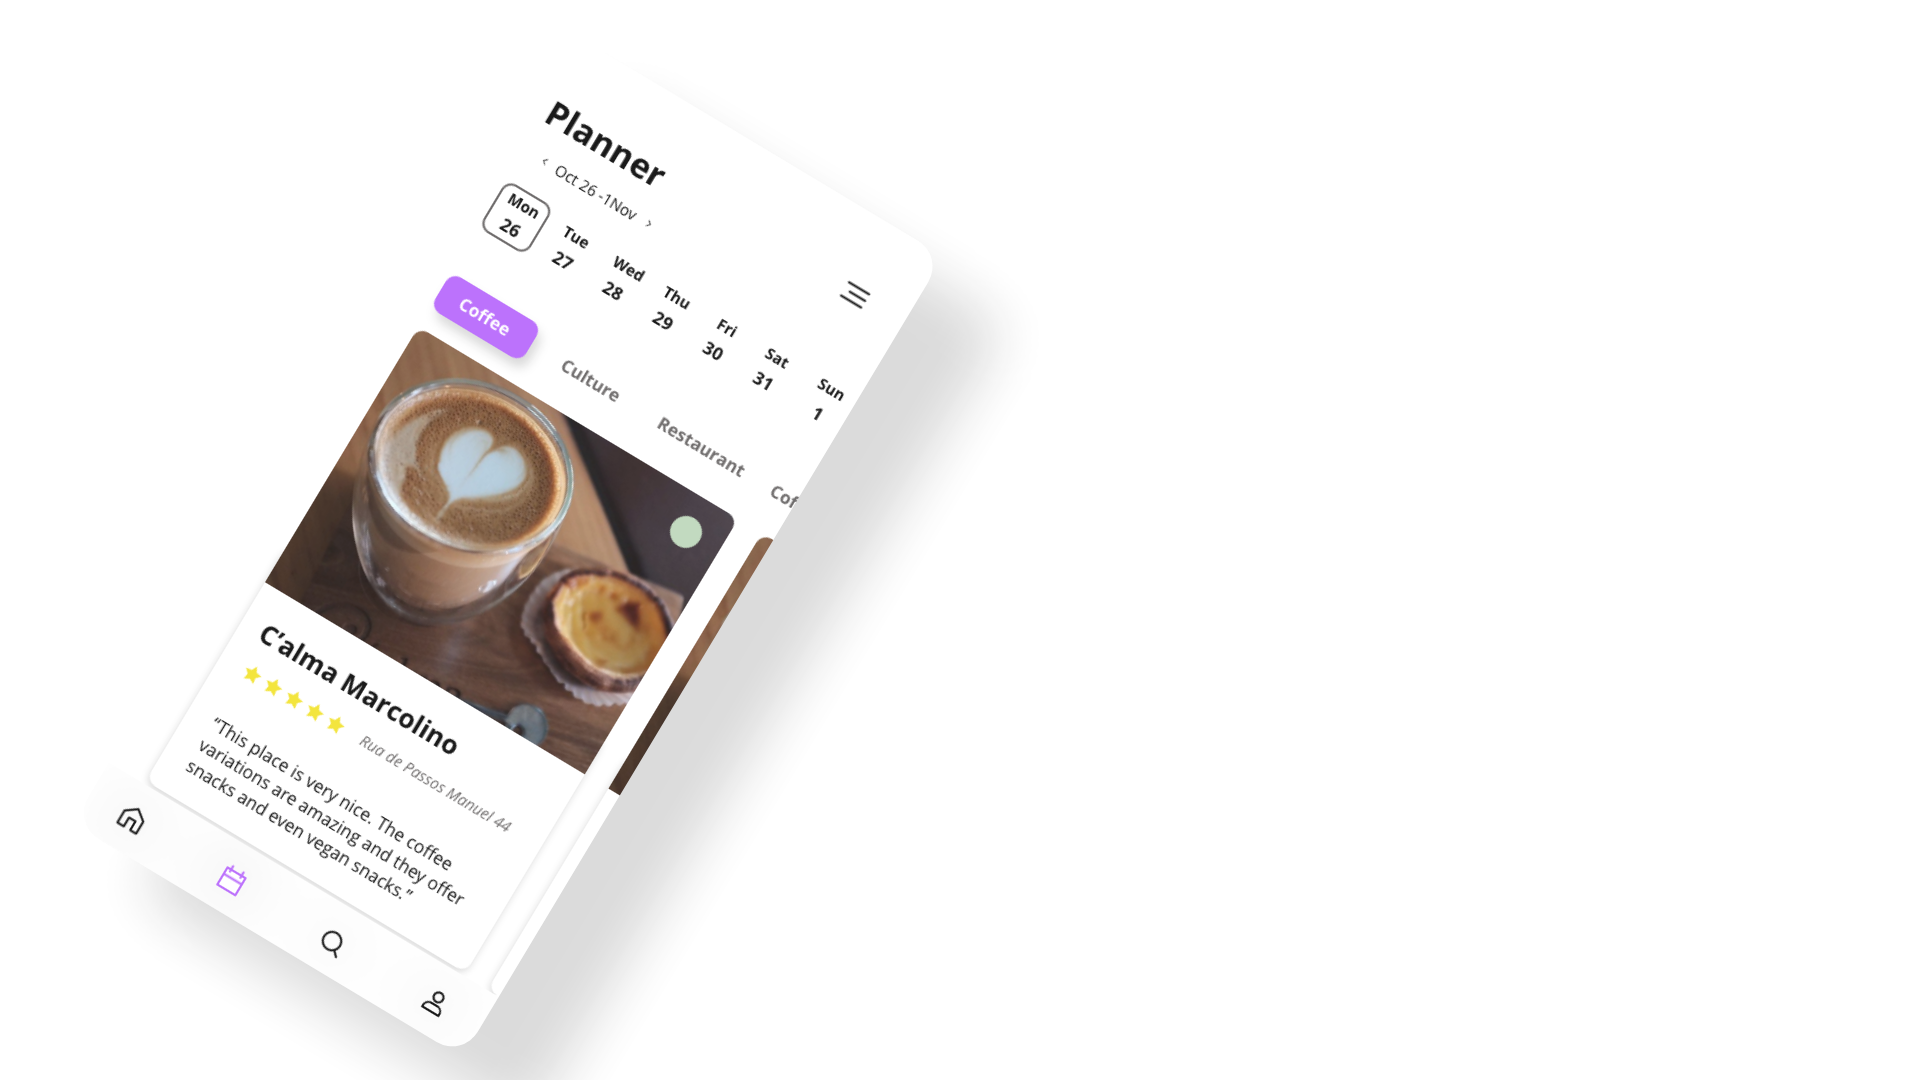
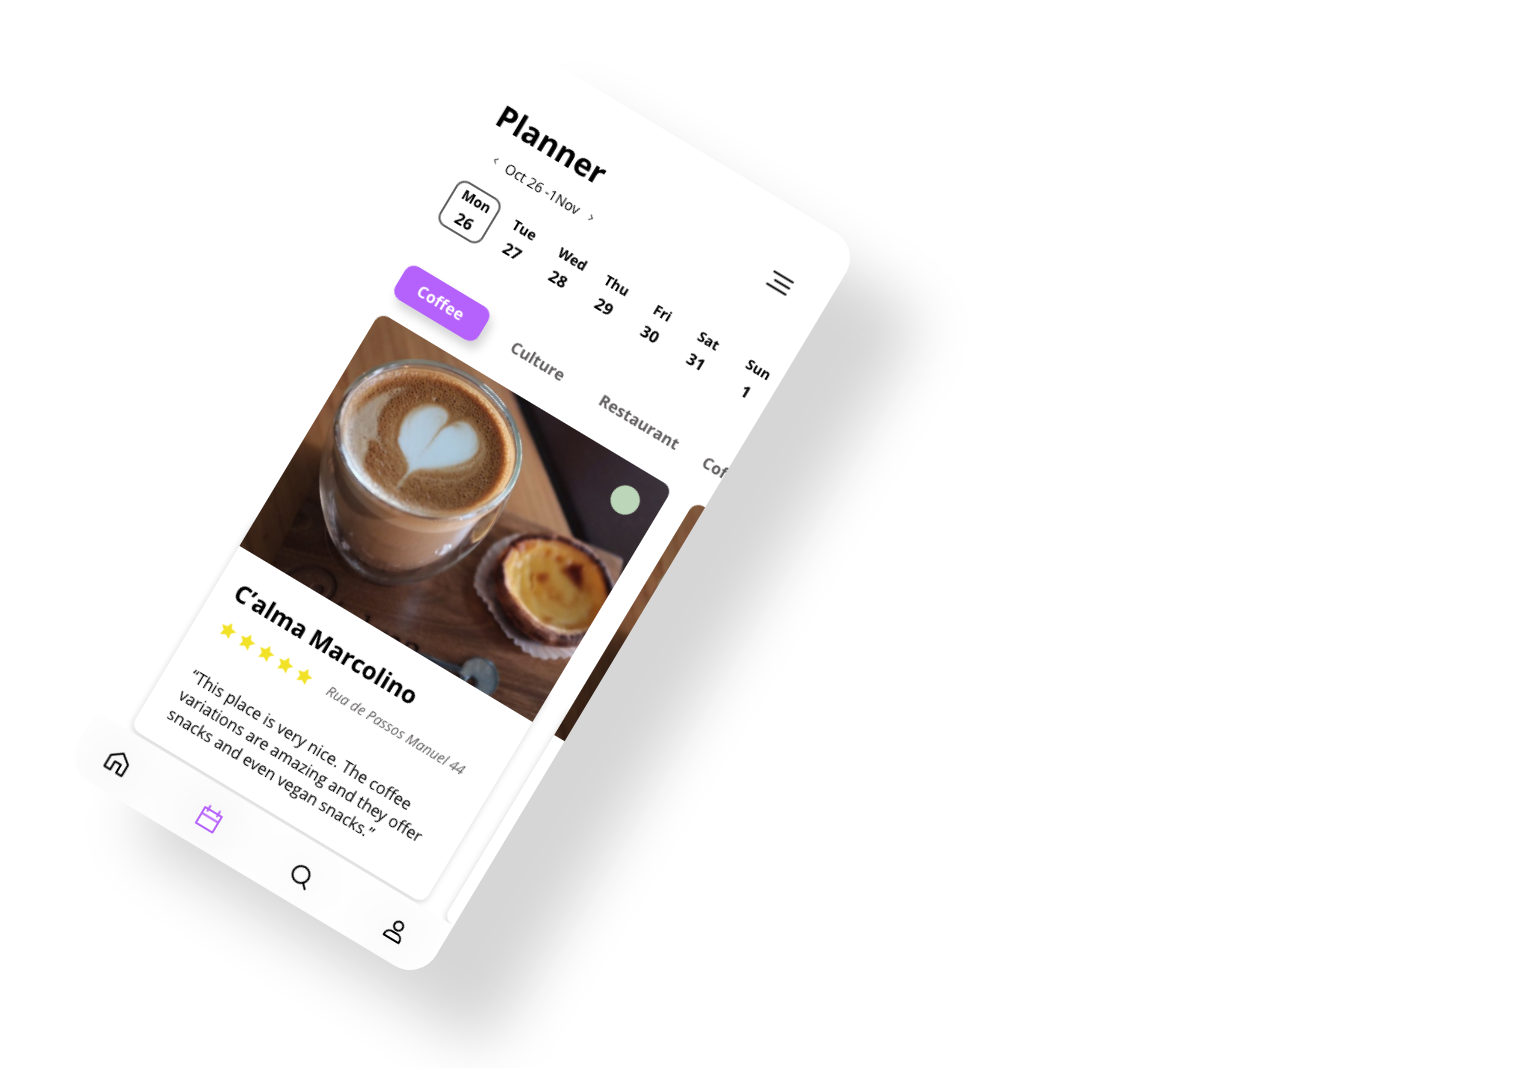
fixing phone screens

Changed region(s): [[0.0618, 0.0927, 0.5871, 1.0]]

diff --git a/styleporto.css b/styleporto.css
@@ -89,9 +89,9 @@ header:after{
 }
 .porto1{
     position: absolute;
-    width: 90%;
+    width: 70%;
     bottom: -600px;
-    left: -100px;
+    left: -0px;
     z-index: 25;
 }
 
@@ -105,7 +105,7 @@ header:after{
 }
 .porto2{
     position: absolute;
-    width: 90%;
+    width: 80%;
     bottom: -600px;
     left: 500px;
     z-index: 23;
@@ -121,8 +121,8 @@ header:after{
 
 .porto3{
     position: absolute;
-    width:100%;
-    left:100px;
+    width:90%;
+    left:150px;
     bottom: 380px;
     z-index: 25;
 }
